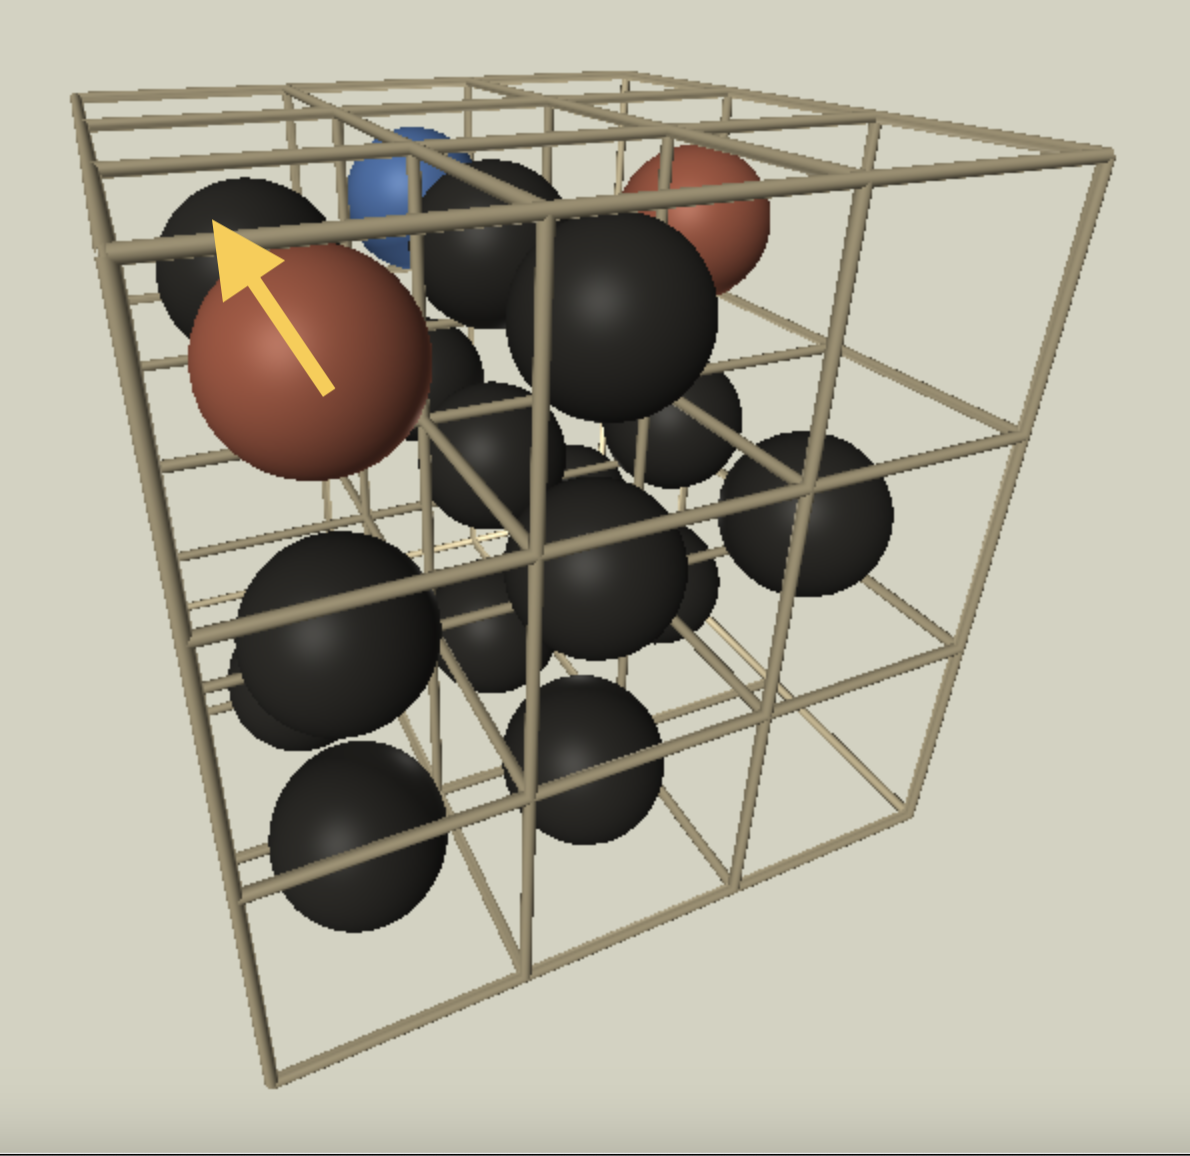
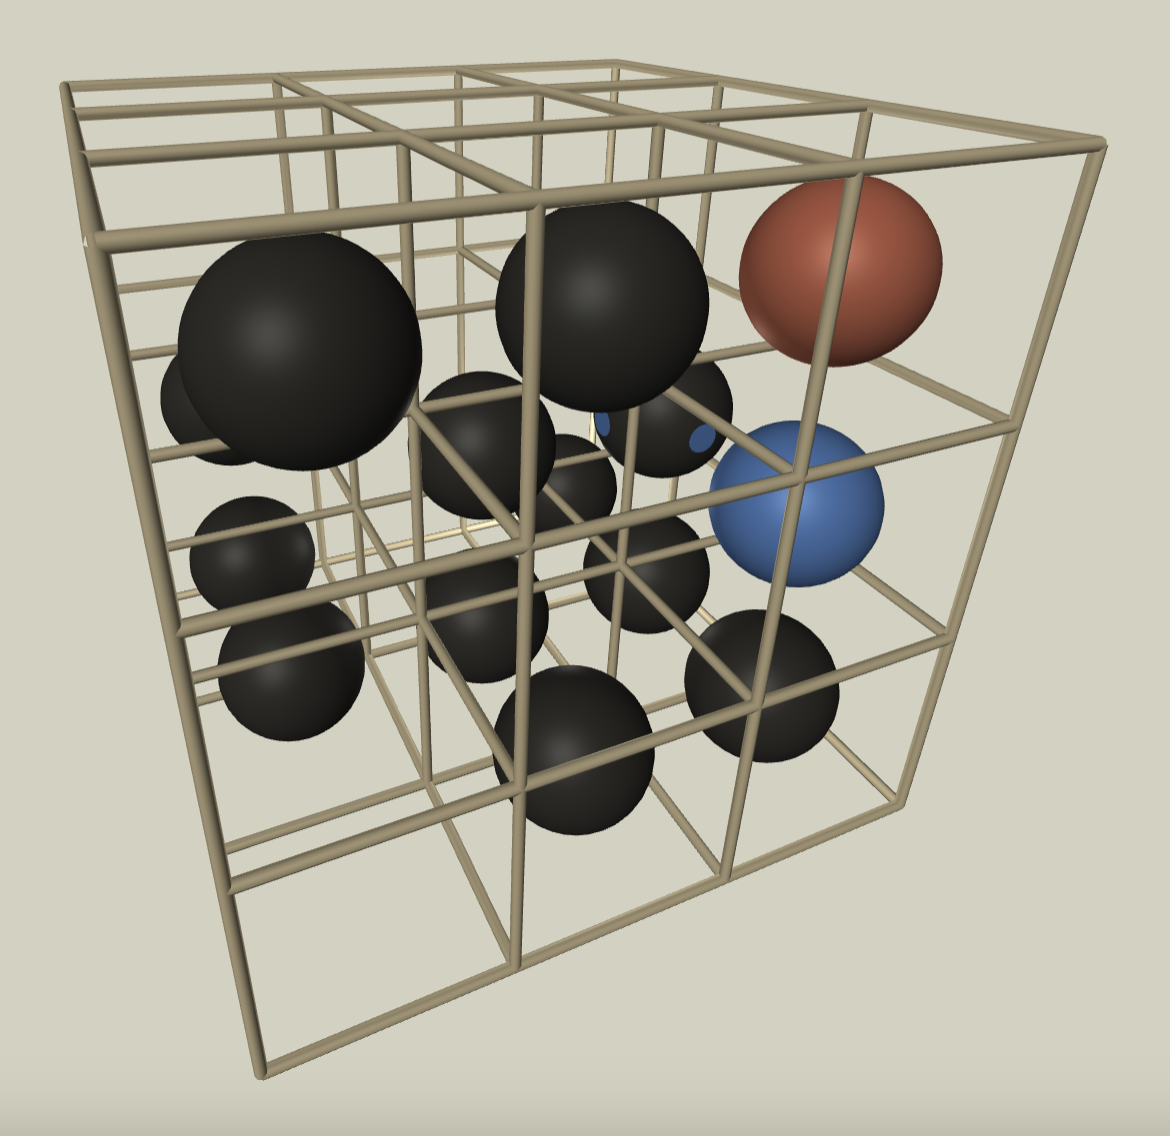
highlight blue on full board, update how-to-play

Changed region(s): [[0.0308, 0.0308, 0.9538, 0.9551], [0.0, 0.9859, 1.0, 1.0]]

diff --git a/tactictoe/templates/player_guide.html b/tactictoe/templates/player_guide.html
@@ -4,35 +4,41 @@
     {% load static %}
     <meta charset="UTF-8">
     <meta name="viewport" content="width=device-width, initial-scale=1.0">
-    <title>TacTicToe</title>
+    <title>How to Play TacTicToe</title>
     <link href="https://cdn.jsdelivr.net/npm/bootstrap@5.3.0/dist/css/bootstrap.min.css" rel="stylesheet">
     <link href="https://cdnjs.cloudflare.com/ajax/libs/font-awesome/6.4.0/css/all.min.css" rel="stylesheet">
     <style>
         body {
             font-family: 'Arial', sans-serif;
-            background-color: #121212; /* Dark background */
-            color: #ffffff; /* Light text color */
-            margin: 0;
-            padding: 20px; /* Adjusted padding */
+            background-color: #121212;
+            color: #ffffff;
+            line-height: 1.6;
         }
-        .image-pair {
-            display: flex; /* Ensures flexbox is used */
-            justify-content: center; /* Centers images horizontally within the container */
-            flex-wrap: wrap; /* Allows images to wrap onto the next line on smaller screens */
-        }
-        img {
-            width: 45%; /* Slightly less than half to account for margins/gaps */
-            height: auto; /* Maintains aspect ratio */
-            margin: 0 2.5%; /* Adds space between the images */
+        .container {
+            max-width: 800px;
+            padding: 40px 20px;
         }
         h1, h2 {
-            text-align: center;
             color: #ccc;
+            margin-bottom: 30px;
         }
-        p {
-            line-height: 1.6;
+        .section {
+            background-color: #1e1e1e;
+            border-radius: 10px;
+            padding: 30px;
+            margin-bottom: 30px;
+            box-shadow: 0 4px 6px rgba(0, 0, 0, 0.1);
+        }
+        .image-pair {
+            display: flex;
+            justify-content: space-between;
             margin-top: 20px;
             margin-bottom: 20px;
+        }
+        .image-pair img {
+            width: 48%;
+            border-radius: 5px;
+            box-shadow: 0 2px 4px rgba(0, 0, 0, 0.1);
         }
         .home-button {
             position: fixed;
@@ -40,36 +46,48 @@
             left: 20px;
             z-index: 1000;
         }
+        .highlight {
+            color: #ffffff;
+            font-weight: bold;
+        }
     </style>
 </head>
 <body>
     <a href="/" class="btn btn-outline-light home-button">
         <i class="fas fa-home"></i> Home
     </a>
-
-    <h1>Welcome to TacTicToe.io!</h1>
-    <h2>How To Play</h2>
-    <p>
-        <strong>Objective:</strong> Position 3 of your pieces in a row anywhere on the three-dimensional 3x3x3 game board. Achieve this run vertically, horizontally, diagonally, or straight through the middle. Players alternate turns placing their pieces until one achieves a run of 3 or the board fills up without a winner. If the board fills up, the second player wins the game.
-    </p>
-    <div class="image-pair">
-        <img src="{% static 'images/red_wins.png' %}" alt="Red Wins">
-        <img src="{% static 'images/blue_wins.png' %}" alt="Blue Wins">
+    <div class="container">
+        <h1 class="text-center">Welcome to TacTicToe.io!</h1>
+        <h2 class="text-center">How To Play</h2>
+        
+        <div class="section">
+            <h3 class="highlight">Objective</h3>
+            <p>Position 3 of your pieces in a row anywhere on the three-dimensional 3x3x3 game board. Players alternate turns placing their pieces until one achieves a run of 3 or the board fills up without a winner. If the board fills up, the second player wins the game.</p>
+            <div class="image-pair">
+                <img src="{% static 'images/red_wins.png' %}" alt="Red Wins">
+                <img src="{% static 'images/blue_wins.png' %}" alt="Blue Wins">
+            </div>
+        </div>
+        
+        <div class="section">
+            <h3 class="highlight">The Twist</h3>
+            <p>You can either place a new piece in an empty square, <strong>or</strong> push existing pieces toward the back of the cube, as long as the row you push isn't full. Rotate the board using your arrow keys or W, A, S, D to play on any side of the board.</p>
+            <div class="image-pair">
+                <img src="{% static 'images/before_push.png' %}" alt="Before Push">
+                <img src="{% static 'images/after_push.png' %}" alt="After Push">
+            </div>
+        </div>
+        
+        <div class="section">
+            <h3 class="highlight">Neutral Pieces</h3>
+            <p>Eleven "neutral" black pieces start on the board as obstacles, placed in a random pattern generated each time you play. Use these to block your opponent or secure advantageous positions for your pieces. Player 2 can also place two neutral pieces throughout the game (1 per turn) in addition to their normal move. These placements cannot push existing pieces, and must be place on an empty square.</p>
+            <div class="image-pair">
+                <img src="{% static 'images/start_1.png' %}" alt="Start Position 1">
+                <img src="{% static 'images/start_2.png' %}" alt="Start Position 2">
+            </div>
+        </div>
+        
+        <p class="text-center highlight">Hope you enjoy!</p>
     </div>
-    <p>
-        <strong>The Twist:</strong> You can either place a new piece in an empty square, or push existing pieces in your chosen direction, provided the push doesn't force pieces out of the cube. You cannot place a piece in the middle directly, and must start from one of the outer squares instead. Rotate the board using your arrow keys or W, A, S, D to face any direction. Then, place your piece on the side facing you, which pushes any piece in that square towards the back of the board.
-    </p>
-    <div class="image-pair">
-        <img src="{% static 'images/before_push.png' %}" alt="Before Push">
-        <img src="{% static 'images/after_push.png' %}" alt="After Push">
-    </div>
-    <p>
-        <strong>Neutral Pieces:</strong> Sixteen "neutral" black pieces start on the board as obstacles, placed in a random pattern generated each game you play. Use these to block your opponent or secure advantageous positions for your pieces. With only 11 open squares available, filling the board without completing a run of three is a real possibility. This dynamic creates a complex set of strategies, making this simple looking game easy to learn but challenging to master.
-    </p>
-    <div class="image-pair">
-        <img src="{% static 'images/start_1.png' %}" alt="Start Position 1">
-        <img src="{% static 'images/start_2.png' %}" alt="Start Position 2">
-    </div>
-    <p>Hope you enjoy!</p>
 </body>
 </html>

diff --git a/tactictoe/models.py b/tactictoe/models.py
@@ -623,6 +623,8 @@ class Board:
         for run in self.winningRuns:
             if all(self.pieces[x][y][z] == player for (x,y,z) in run):
                 return run
+        if player == Piece.BLUE and self.hasWon(player):
+            return [(x,y,z) for x in range(3) for y in range(3) for z in range(3) if self.pieces[x][y][z] == player]
         return None
     
     def getSimpleDefendingMove(self,player: Piece):
@@ -779,7 +781,7 @@ class GamePlayer:
         if isBlockerMove:
            if self.lastMoveBlocker:
               raise Exception("last_move_blocker")
-           elif self.blockerMoveCount >= 3:
+           elif self.blockerMoveCount >= 2:
               raise Exception("max_blocker_moves")
            self.lastMoveBlocker = True
            self.blockerMoveCount += 1

diff --git a/tactictoe/views.py b/tactictoe/views.py
@@ -286,6 +286,7 @@ def handle_multiplayer_move(request):
             winner = game.player_two
             winner_color = p2_color.value
             winning_run = board.winningRun(p2_color)
+            import ipdb; ipdb.set_trace()
         winner_id = None if winner == None else winner.id
         winner_name = None if winner == None else winner.username
         if winner:
